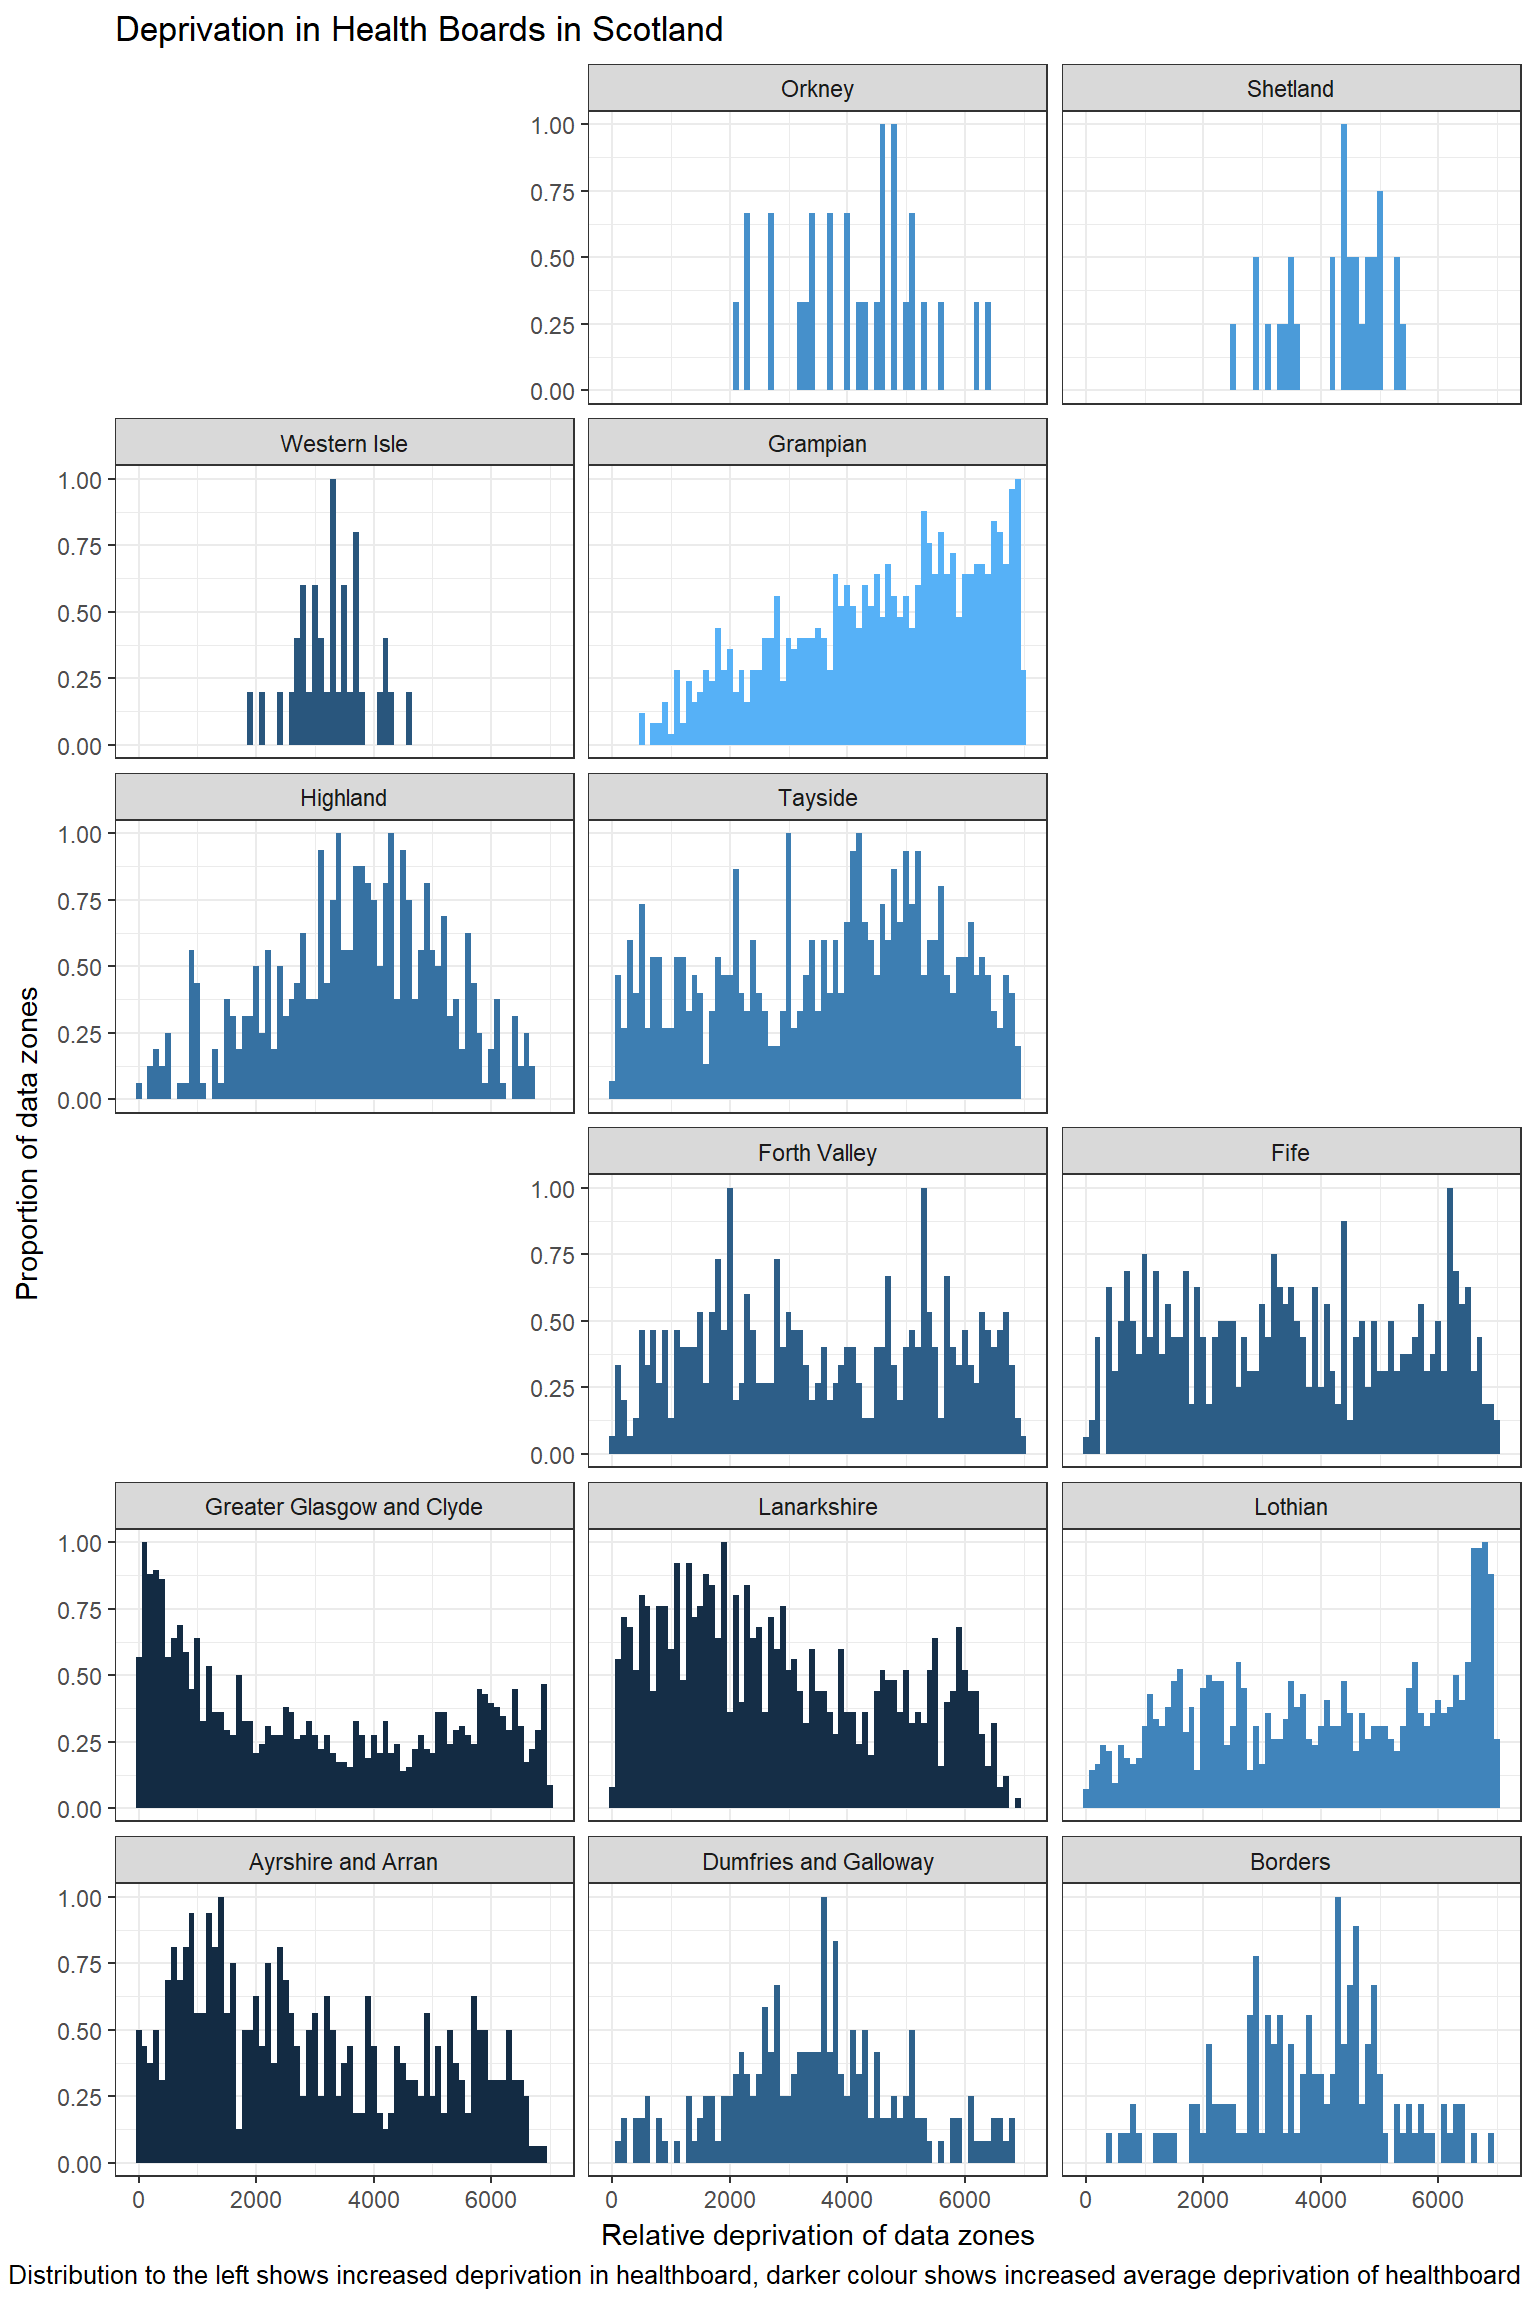
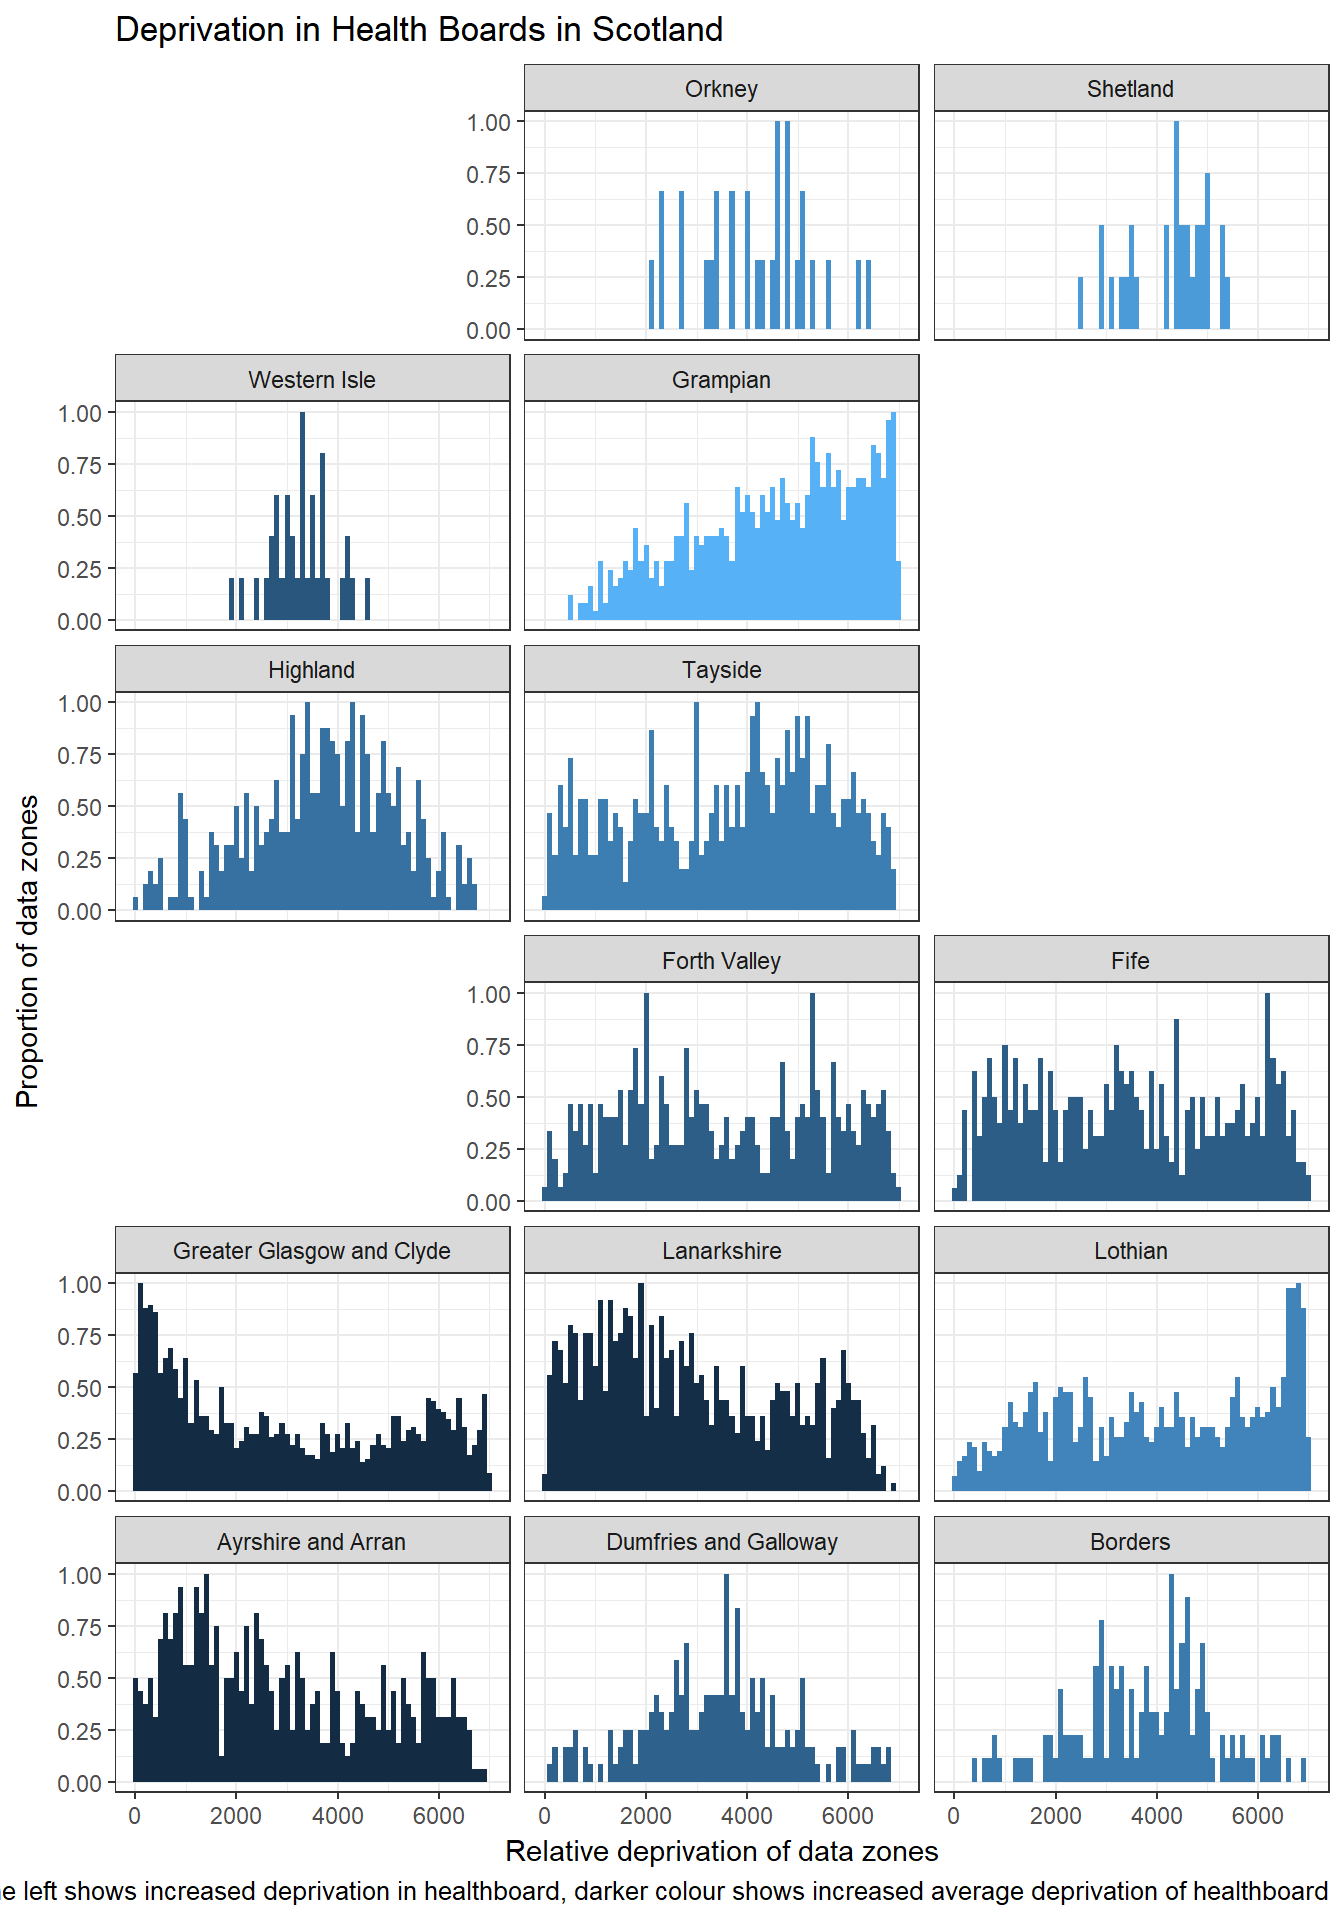
updated first post figures

diff --git a/docs/2017/05/29/plotting-deprivation-in-scotland-using-geofacet-and-sf-in-r/index.html b/docs/2017/05/29/plotting-deprivation-in-scotland-using-geofacet-and-sf-in-r/index.html
@@ -98,7 +98,7 @@ data_simd_ranks$HBname[data_simd_ranks$HBname == &quot;Western Isles&quot;] &lt;
        caption = &quot;Distribution to the left shows increased deprivation in healthboard, darker colour shows increased average deprivation of healthboard&quot;) + 
   theme_bw() +
   theme(legend.position = &quot;none&quot;) </code></pre>
-<p><img src="../../../../post/2017-05-28-plotting-deprivation-in-scotland-using-geofacet-and-sf-in-r_files/figure-html/geofacet_deprivation_plots-1.png" width="768" /></p>
+<p><img src="../../../../post/2017-05-28-plotting-deprivation-in-scotland-using-geofacet-and-sf-in-r_files/figure-html/geofacet_deprivation_plots-1.png" width="672" /></p>
 </div>
 <div id="glasgow-versus-edinburgh" class="section level3">
 <h3>Glasgow versus Edinburgh</h3>

diff --git a/docs/index.html b/docs/index.html
@@ -108,7 +108,7 @@ data_simd_ranks$HBname[data_simd_ranks$HBname == &quot;Western Isles&quot;] &lt;
        caption = &quot;Distribution to the left shows increased deprivation in healthboard, darker colour shows increased average deprivation of healthboard&quot;) + 
   theme_bw() +
   theme(legend.position = &quot;none&quot;) </code></pre>
-<p><img src="./post/2017-05-28-plotting-deprivation-in-scotland-using-geofacet-and-sf-in-r_files/figure-html/geofacet_deprivation_plots-1.png" width="768" /></p>
+<p><img src="./post/2017-05-28-plotting-deprivation-in-scotland-using-geofacet-and-sf-in-r_files/figure-html/geofacet_deprivation_plots-1.png" width="672" /></p>
 </div>
 <div id="glasgow-versus-edinburgh" class="section level3">
 <h3>Glasgow versus Edinburgh</h3>

diff --git a/content/post/2017-05-28-plotting-deprivation-in-scotland-using-geofacet-and-sf-in-r.html b/content/post/2017-05-28-plotting-deprivation-in-scotland-using-geofacet-and-sf-in-r.html
@@ -59,7 +59,7 @@ data_simd_ranks$HBname[data_simd_ranks$HBname == &quot;Western Isles&quot;] &lt;
        caption = &quot;Distribution to the left shows increased deprivation in healthboard, darker colour shows increased average deprivation of healthboard&quot;) + 
   theme_bw() +
   theme(legend.position = &quot;none&quot;) </code></pre>
-<p><img src="/post/2017-05-28-plotting-deprivation-in-scotland-using-geofacet-and-sf-in-r_files/figure-html/geofacet_deprivation_plots-1.png" width="768" /></p>
+<p><img src="/post/2017-05-28-plotting-deprivation-in-scotland-using-geofacet-and-sf-in-r_files/figure-html/geofacet_deprivation_plots-1.png" width="672" /></p>
 </div>
 <div id="glasgow-versus-edinburgh" class="section level3">
 <h3>Glasgow versus Edinburgh</h3>
